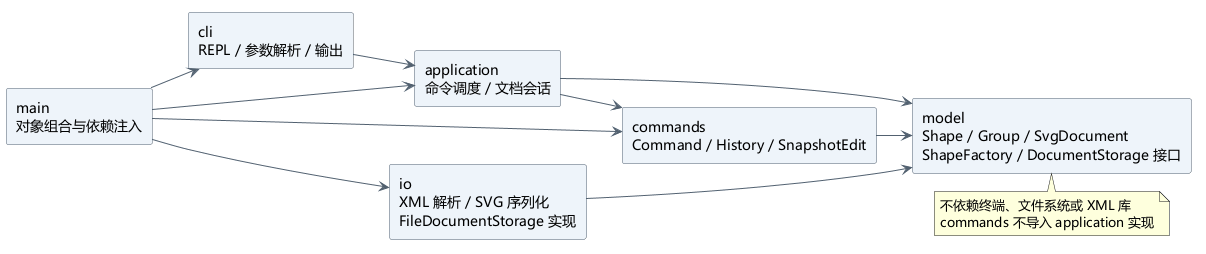
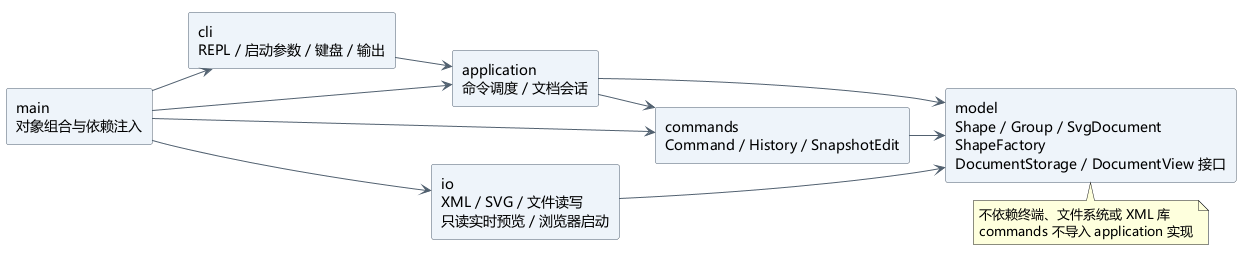
feat: add Windows launcher and document verified live-preview workflow

Changed region(s): [[0.0, 0.0827, 1.0, 0.9646], [0.0, 0.3031, 0.1534, 0.3583], [0.0, 0.5512, 0.1534, 0.5787]]

diff --git a/tests/Usability.test.ts b/tests/Usability.test.ts
@@ -55,6 +55,11 @@ test('unsaved state follows edits, exact undo to the saved snapshot, redo, faile
   new InitCommand(session).execute([]);
   assert.equal(session.hasUnsavedChanges, true);
   new CreateCommand(session).execute(['rect', 'r', '1', '2', '3', '4']);
+  const presented = session.currentDocument!;
+  presented.resize(1, 1);
+  presented.remove('r');
+  assert.equal(session.document.width, 800, 'presentation receives a detached view');
+  assert.equal(session.document.has('r'), true);
   session.save(file);
   assert.equal(session.hasUnsavedChanges, false);
   new MoveCommand(session).execute(['r', '10', '0']);

diff --git a/src/application/EditorSession.ts b/src/application/EditorSession.ts
@@ -14,7 +14,7 @@ export class EditorSession implements CommandContext, DocumentView {
   constructor(private readonly storage?: DocumentStorage) {}
 
   get associatedPath(): string | undefined { return this.filePath; }
-  get currentDocument(): SvgDocument | undefined { return this.current; }
+  get currentDocument(): SvgDocument | undefined { return this.current?.clone(); }
   get hasUnsavedChanges(): boolean {
     return this.current !== undefined && (this.savedSnapshot === undefined || !this.current.equals(this.savedSnapshot));
   }

diff --git a/doc/README.md b/doc/README.md
@@ -2,7 +2,7 @@
 
 仓库地址：https://github.com/SharkerSwag/lab1-svg-editor
 
-状态：2026-10-19 Phase 1 功能已实现，正在二次复核与试用。本轮 main 修复了独立复核发现的问题，已有 final 暂保留为旧版对照，尚未重新确认正式交付。后续 box 插件不在当前范围。课程平台上的 README 上传及状态核对需由本人执行。
+状态：2026-10-21 Phase 1 功能及实用性改进已实现，95 项测试通过，当前仍保留试用与正式交付的区分。main 包含实时预览与启动改进，已有 final 暂保留为旧版对照。后续 box 插件不在当前范围。课程平台上的 README 上传及状态核对需由本人执行。
 
 ## 架构方案
 
@@ -10,11 +10,11 @@
 
 | 模块 | 职责 | 当前进度 |
 | --- | --- | --- |
-| `src/cli/` | REPL、双引号参数解析、提示符和统一错误输出 | 已实现 |
+| `src/cli/` | REPL、启动参数、双引号解析、提示符、键盘与退出提醒 | 已实现 |
 | `src/application/` | 命令注册与调度、当前文档、历史与 IO 协调 | EditorApplication / CommandRegistry / EditorSession |
 | `src/commands/` | 对象化命令、可撤销编辑和历史管理 | 十九个 CLI 命令、全部编辑对象与 History 已实现 |
 | `src/model/` | 图形类层次、分组、画布、id 与树结构不变量 | 六种图形、工厂、文档、不可变几何与属性变换已实现 |
-| `src/io/` | SVG 解析、序列化及文件读写 | XML 解析、序列化、保存与读取均已实现 |
+| `src/io/` | SVG/命令文件读写、只读实时预览、浏览器启动 | 文件端口和展示适配器均已实现 |
 | `src/main.ts` | 组合入口，构造对象并注入依赖 | 已实现 |
 | `tests/` | 自动测试，包括边界与脚本回放 | 当前覆盖输入、模型、创建、历史和示例回放 |
 
@@ -38,8 +38,9 @@
 - `application → commands/model`：调度命令并协调当前文档、历史与持久化端口，不导入 io 具体实现。
 - `commands → model`：编辑行为操作领域对象，不导入 CLI 或文件系统。
 - 应用层 `EditorSession` 实现命令层定义的 `CommandContext` 接口；命令通过该接口访问会话能力，不反向导入 application 实现，避免循环依赖。
-- `io → model`：在 SVG 和领域模型之间转换，不控制历史。
+- `io → model`：在 SVG 和领域模型之间转换，通过 DocumentView 只读获取会话状态，不控制历史或调用编辑命令。LivePreview 只提供页面、快照与 SSE 推送。
 - `model/DocumentStorage` 定义持久化端口，io 实现、application 注入使用，commands 不导入文件 IO 实现。
+- `model/DocumentView` 定义只读展示端口，由 EditorSession 实现；main 将其注入预览。cli 用 main 注入的回调请求刷新，不导入 io，application 也不依赖 HTTP 或浏览器。
 - `model` 不依赖以上模块，不导入终端与文件 IO。
 - `main.ts` 是组合入口，允许导入各模块来注入对象，不承载图形业务逻辑。
 - 测试可以依赖被测模块，不被产品代码反向导入。
@@ -50,7 +51,7 @@
 
 | 变化点 | 当前决策 |
 | --- | --- |
-| 新增 GUI 或 agent 输入通道 | CLI 与应用层分离，复用命令和图形模型 |
+| 新增 GUI 或 agent 输入通道 | 已增加只读浏览器预览适配器；编辑仍复用现有命令，不复制一套浏览器编辑逻辑 |
 | 新增图形类型及后续 `box` 插件 | 已有统一 Shape 接口和集中工厂；不提前实现动态插件加载 |
 | 新增编辑命令 | 用命令对象注册到单一分发入口，避免 REPL 膨胀 |
 | 读写格式、外部 SVG 兼容范围 | 独立 `io` 模块，先定义可支持范围，再做往返测试 |
@@ -65,6 +66,10 @@
 SVG 导入范围：UTF-8 XML、SVG 命名空间或无命名空间、六种基本图形、嵌套、公共样式、数字/px 长度、文字与 CDATA。title/desc/metadata 不作为图形；保留 font-size/font-family/font-weight/font-style/text-anchor/xml:space 作为导入显示属性，不扩展 set 白名单。根尺寸缺失时优先采用 viewBox，否则默认 800×600；存在 viewBox 时要求为 0 0 width height。支持嵌套 translate 并展平至几何坐标；其他 transform、CSS style/class、未支持元素/属性、非 UTF-8 和 DTD 明确拒绝，不静默丢弃。未知 data-kind 警告后降级普通类型，不恢复 box 便利属性。显式 id 先全量预留再补缺失 id，避免与后面元素碰撞。
 
 默认保存路径：read 绑定读入路径，后续显式 save 到其他文件不改变该路径，确保无参数 save 按题目写回读入文件。init 后首次成功 save 建立默认路径；init 清除绑定，后续 read 重新绑定。带引号参数中的反斜杠保持字面值，只将 `\"` 用作文字内双引号转义，因此 Windows UNC 前缀不会被折叠。
+
+实用性扩展的边界：npm run cli 保持原始无文档会话和十九条命令。npm start 通过启动参数打开示例工作副本并启动只读实时预览；--file 打开原文件，--copy 打开无默认路径的副本，--script 回放后退出且以非零退出码报告错误。预览读取内存快照并通过 SSE 更新，不调用 save，因此不产生历史屏障。浏览器只处理 DOM 与图片展示，图形变换和类型分派继续由 TypeScript 领域对象负责。
+
+未保存状态：保存/读取后保留一个文档内容快照，按图形多态几何、样式、文字、层级和顺序比较，而非简单记录“执行过编辑”。undo 回到已保存内容时恢复已保存状态；任意成功 save 都表示当前快照已有文件副本，但不改变上述默认路径规则。此状态额外占用一份文档，仍限于 Lab 小图规模。Ctrl+C 首次提示可继续保存，再次确认放弃；EOF 直接结束，不宣称自动恢复或崩溃保护。
 
 ## 过程记录
 
@@ -154,6 +159,15 @@ SVG 导入范围：UTF-8 XML、SVG 命名空间或无命名空间、六种基本
 - 当前共 81 项测试通过；Edge 实际加载指南生成的 SVG，蓝色矩形、橙色圆、绿色椭圆、中文与横线显示正常，截图和原 SVG 已留存。继续保留旧 final，不因本轮通过自动改写标签。
 - 源码提交 64a0513 再次通过独立干净目录的 npm ci、类型检查、81 项测试、导出与完整示例验证；新导出与已有浏览器预览源文件哈希一致。此后只记录验收结果，不修改已验证的运行代码与测试。
 
+### 2026-10-21：从功能验收到实际工具
+
+- 用户指出仍欠易用性。将这轮范围集中为终端驱动的实时预览、一键示例启动、文件/副本/脚本参数、保存状态、键盘操作和退出提醒，保留作业 CLI 主体与十九条命令。
+- 预览必须避开 save 的历史屏障，因此采用返回独立文档副本的 DocumentView + SvgSerializer + SSE，逐次发布内存内容，测试确认预览后仍可 undo/redo，展示方也不能改写会话文档。
+- 起初尝试浏览器直接下载副本，实际无头 Edge 下载未能完成，没有将请求发出当作下载成功。删除该功能，采用复制 CLI 保存命令；正式保存继续经过既有原子文件写入和历史规则。
+- 真实终端检查发现宿主 TERM=dumb 会使 Node 禁用历史编辑和补全。通过本机 Node 实现核实，简易终端改为准确提示；支持 VT 的终端实测 Tab 补全、↑ 历史、未保存 Ctrl+C 提醒，以及保存后退出。另有实际 readline 键盘事件回归测试。
+- 新增 14 项回归，共 95 项测试通过，原 81 项继续通过；没有通过改写原断言来放宽命令或历史要求。
+- 真实 Edge 检查了首屏/中文/示例换行、缩放与网格、实际 CLI 编辑/undo/redo、保存后与撤销后的状态、剪贴板按钮、刷新重连、390px 窄窗口与退出断连；浏览器无 JavaScript 或 CSP 错误。截图保存在 doc/live-preview.png。
+
 ## 一致性自查
 
 1. **模块划分**：cli/application/commands/model/io 均已创建，与方案一致；新增的 ShapeInput 适配器、DocumentStorage 端口、SnapshotEdit 和 StructureEditor 分别落在既定职责内。快照策略与依赖收紧已在过程记录中修订。
@@ -161,7 +175,7 @@ SVG 导入范围：UTF-8 XML、SVG 命名空间或无命名空间、六种基本
 
 ## 质量保证手段
 
-当前 81 项自动测试覆盖输入解析、模型不变量、编辑及精确 undo/redo、失败原子性、历史屏障、补 id 与转义、SVG 往返、完整 CLI 示例、架构规则、保存路径、UNC、非法 XML 引用与编码声明，以及 1,200 步混合操作和中文使用指南回放。测试数本身不代表代码已无缺陷。命令为 `npm run typecheck` 和 `npm test`，测试先构建再运行；`npm run demo:full` 可回放题目会话，`npm run demo:svg` 生成可直接浏览的文件。本人可按 [动手验收](https://github.com/SharkerSwag/lab1-svg-editor/blob/main/doc/%E5%8A%A8%E6%89%8B%E9%AA%8C%E6%94%B6.md) 操作并理解架构。
+当前 95 项自动测试覆盖输入解析、模型不变量、精确 undo/redo、失败原子性、历史屏障、SVG 往返、CLI 示例、架构规则、1,200 步混合操作，以及实时预览 HTTP/SSE、深层内容比较、未保存状态、启动参数、脚本退出码和实际 readline 键盘事件。测试数本身不代表代码已无缺陷。命令为 `npm run typecheck` 和 `npm test`；npm run demo:full 回放题目会话。本人可按 [动手验收](https://github.com/SharkerSwag/lab1-svg-editor/blob/main/doc/%E5%8A%A8%E6%89%8B%E9%AA%8C%E6%94%B6.md) 操作并理解架构。
 
 浏览器实际加载程序导出的 SVG，检查方框、中文、连线和节点位移，截图随文档提交。PlantUML 图也已渲染并检查。详细命令、环境和干净检出结果见 [verification.md](https://github.com/SharkerSwag/lab1-svg-editor/blob/main/doc/verification.md)，逐项状态见 [验收清单](https://github.com/SharkerSwag/lab1-svg-editor/blob/main/doc/%E9%AA%8C%E6%94%B6%E6%B8%85%E5%8D%95.md)。
 

diff --git a/README.md b/README.md
@@ -1,83 +1,90 @@
-# Lab1 SVG CLI 编辑器
+# Lab1 SVG 编辑器
 
-个人 Lab1，TypeScript + 面向对象实现，使用 AI 协作并记录架构与开发过程。
+用终端命令画 SVG，同时在浏览器中实时看图。TypeScript + 面向对象，使用 Command 管理撤销重做、Composite 统一叶子与容器操作。
 
 仓库：https://github.com/SharkerSwag/lab1-svg-editor
 
-**当前状态：Phase 1 功能验收通过，本轮 81 项测试通过，包含 1,200 步固定种子的混合操作检查。** `main` 包含复核后的修复。已有 `final` 是过早标记的旧版本，暂保留作对照，不代表当前代码的正式交付确认。`box` 和动态插件不属于本阶段。
+**2026-10-21：作业十九条命令与实用性改进已实现，95 项测试通过。** 另已在真实 Edge 浏览器检查画布更新、缩放、复制命令、保存状态、重连与窄窗口布局。后续阶段的 box 和动态插件不在当前范围。
 
-想弄清终端操作和图片之间的关系，可先照着 [十分钟动手验收](doc/动手验收.md) 操作，覆盖十九条命令，并附真实浏览器截图与架构阅读路线。
+## 开始使用
 
-## 先看图片
+需要 Node.js 24 或更新版本。Windows 可以双击工程目录中的 **start-editor.cmd**：首次启动自动安装依赖，然后进入编辑器。
 
-在项目目录的普通终端中运行 `npm ci`，再运行 `npm run demo:svg`，将生成的 `output/flowchart.svg` 拖进浏览器。以下截图来自浏览器加载程序实际导出的 SVG：
-
-![程序生成的流程图](doc/browser-preview.png)
-
-演示先画出两个节点，再将右侧节点下移、修改文字并调整连线端点，最后保存、读取。`output/flowchart-before.svg` 是修改前，`output/flowchart.svg` 是修改后。保存后刷新浏览器即可看到变化。
-
-## 本地运行
-
-需要 Node.js 24 或更新版本。
+也可以在工程目录的终端运行：
 
 ```powershell
 npm ci
-npm run cli
+npm start
 ```
 
-输入 `help` 查看全部命令。Windows 下按 Ctrl+Z 再回车发送 EOF 退出，或按 Ctrl+C 退出。只有交互终端显示 `svg> ` 提示符；脚本输入不显示提示符。更新代码后需退出旧 CLI 并重新运行。
+终端会出现 `svg>`，浏览器打开实时画布。启动时加载流程图的**工作副本**，首次保存需指定自己的文件名。浏览器无法自动打开时，复制终端打印的本机地址即可。
 
-可以在 CLI 内逐行输入（不要复制 `svg>` 提示符）：
+![实际运行的实时预览](doc/live-preview.png)
+
+在 `svg>` 后逐行输入，不要复制提示符：
 
 ```text
-init 800 600
-create g node1
-create rect start 120 100 160 60 #4a90d9 in node1
-create text label 155 135 "开始" in node1
-tree
-show start
+move node2 0 60
+set process-label text "处理数据 v2"
 undo
-tree
 redo
-tree
 save "我的图.svg"
 ```
 
-`undo` 撤销刚创建的文字，`redo` 将其恢复；最后的 save 导出文件，可直接在浏览器打开。g 是不可见的分组，tree 是结构目录。创建失败不占用 id、不改变文档和历史。成功 `init/read/save` 或 `canvas w h` 清空历史并禁止撤销重做，直到下一次成功编辑；只查询 `canvas` 不影响历史。
+右侧节点会下移，文字跟着移动；修改文字后，undo/redo 会撤销、恢复文字。画面随命令自动更新，**预览不会执行 save，不会清空撤销历史**。最后的 save 才将作品写入磁盘。
 
-在工程目录的普通终端中（不是 `svg>` 内）运行完整的两节点流程图创建演示：
+画布支持适应窗口、放大缩小和透明网格；右侧显示文档树、当前保存状态，并可复制示例或保存命令。关闭浏览器后，终端仍能编辑；终端退出后，预览服务随之关闭。
+
+## 打开文件与标准 CLI
+
+| 用途 | 在普通终端运行 |
+| --- | --- |
+| 作业原始 CLI，默认无文档 | `npm run cli` |
+| 空会话，附实时预览 | `npm run cli -- --preview` |
+| 打开已有 SVG 并预览 | `npm run cli -- --file "我的图.svg" --preview` |
+| 打开副本，另存自己的作品 | `npm run cli -- --copy "我的图.svg" --preview` |
+| 不自动打开浏览器，只打印地址 | 在启动参数后加 `--no-open` |
+| 回放 UTF-8 命令文件并退出 | `npm run cli -- --script "命令.txt"` |
+| 启动帮助 | `npm run cli -- --help` |
+
+`--file` 保留原路径，无参数 save 会写回该文件。`--copy` 创建无默认路径的工作副本，避免改写示例。`--script` 中每行一条命令，错误后继续处理，任何一行失败时返回非零退出码；脚本内的相对路径以终端当前工作目录为准。
+
+输入 `help` 查看全部十九条作业命令。支持 VT 的交互终端可使用 ↑/↓ 调出历史、Tab 补全命令名；历史仅保留在当前会话中。`TERM=dumb` 使用简易逐行模式并明确提示。脚本输入不显示交互提示符。
+
+## 保存与退出
+
+- `save "我的图.svg"`：保存到指定文件；读入文档后显式导出另一文件，不改变原有默认保存路径。
+- `save`：写回 read/`--file` 绑定的路径；init/`--copy` 后第一次成功保存建立默认路径。
+- 未保存提示比较实际文档内容；撤销回已保存的内容会恢复“已保存快照”。显式导出副本也代表当前快照已落盘，但仍不改变默认路径。
+- 交互终端按 Ctrl+C：有未保存更改时，第一次提醒保存并继续会话；再次 Ctrl+C 放弃更改并退出。输入新命令会重置退出确认。
+- EOF（Windows 的 Ctrl+Z 后回车、其他平台的 Ctrl+D）直接退出；有未保存内容会警告。程序不自动写入恢复文件，退出前请执行 save。
+
+成功 init/read/save 或 canvas 修改尺寸按作业规则清空历史并禁止撤销重做，直到下一次编辑；canvas 查询、tree/show/help 和实时预览不影响历史。失败命令不改变文档、关联路径或历史。
+
+## 示例与验证
 
 ```powershell
 npm run demo
-```
-
-演示脚本位于 [examples/creation.txt](examples/creation.txt)，包含中文标签、嵌套分组和撤销重做。
-
-导出真正的图片文件：
-
-```powershell
 npm run demo:svg
-```
-
-随后把工程目录的 `output/flowchart.svg` 拖进浏览器查看。此文件由本程序的 `save` 生成。也可以在 `svg>` 中执行 `save "我的图.svg"`。read 后的无参数 save 写回读入路径；显式保存到另一文件只导出副本，不改变已绑定的默认路径。init 后首次成功 save 建立默认路径。成功保存设置历史屏障，失败不改变历史和关联路径。`output/` 是生成目录，不提交 Git。
-
-```powershell
+npm run demo:full
 npm run typecheck
 npm test
-npm run demo:full
 ```
 
-项目 `.npmrc` 使用 npm 官方 registry，避免本机旧镜像地址影响安装；不修改用户全局 npm 配置。
+`demo:svg` 生成 output/flowchart-before.svg 和 output/flowchart.svg，可拖进浏览器直接查看。`demo:full` 回放题目完整会话与案例 A，其中祖孙冲突和保存后 undo 是题目预期的两条错误。output/ 是生成目录，不提交 Git。
 
-`demo:full` 回放作业第 6 节完整会话和案例 A，其中祖孙冲突分组与保存后 undo 的两条错误是题目预期行为。十九条命令均已注册并列在 help 中。应用运行不需要 Java，文档里的 PlantUML 图已预先生成。
+项目 .npmrc 使用 npm 官方源，完整依赖树固定在 package-lock.json。应用运行不需要 Java，PlantUML 图已生成。实时预览只监听本机回环地址，不依赖外部网页、CDN 或新增 npm 包。
 
-外部 SVG 导入范围与边界见 [作业文档](doc/README.md)。本程序支持题目要求的六种基本元素，不是通用 SVG 浏览器；遇到未支持的格式会明确报错。
+SVG 支持范围与限制见 [作业文档](doc/README.md)；本程序实现本阶段的基本 SVG 子集。
 
-## 作业文档与提交
+## 作业材料
 
-- [架构方案、过程记录、自查与质量保证](doc/README.md)
-- [功能验收清单与时间安排](doc/验收清单.md)
-- [验证记录与测试覆盖](doc/verification.md)
-- [二次独立审查与实际修复](doc/review-2026-10-19.md)
+- [架构方案、真实过程、自查与质量保证](doc/README.md)
+- [十分钟动手验收：十九条命令与架构阅读路线](doc/动手验收.md)
+- [功能验收清单](doc/验收清单.md)
+- [验证记录](doc/verification.md)
+- [前次独立审查与修复](doc/review-2026-10-19.md)
 
-截至课程平台显示的 2026-10-31 23:59，需要推送最终代码和 `final` 标签，并把包含仓库地址的 `doc/README.md` 以文件名 `README.md` 上传课程平台。平台时区以课程设置为准。课程平台上传及提交状态核对需由本人完成；页面可访问到 11 月 30 日不代表作业延期。
+课程截止为 **2026-10-31 23:59**，须推送最终代码和 final 标签，并将含仓库地址的 doc/README.md 以文件名 README.md 上传课程平台。平台可访问到 11 月 30 日不代表延期。
+
+已有 final 是过早标记的旧版本，暂保留作对照；当前可用版本在 main。最终标签确认和课程平台上传仍待完成。

diff --git a/doc/verification.md b/doc/verification.md
@@ -1,12 +1,12 @@
 # Phase 1 验证记录
 
-验证日期：2026-10-19。
+验证日期：2026-10-19、2026-10-21。
 
 ## 环境与命令
 
 - Windows，Node.js v24.19.0、npm 11.17.0、Git 2.45.1。
 - TypeScript 7.0.2、tsx 4.23.15、@xmldom/xmldom 0.9.12；依赖版本与完整依赖树由 package-lock.json 固定。
-- `npm test`：先构建，再运行 Node 内置测试运行器，目前 **81/81 通过**；旧 final 的 67 项测试属于上一轮证据，不能替代本轮复核。
+- `npm test`：先构建，再运行 Node 内置测试运行器，目前 **95/95 通过**；旧 final 的 67 项测试属于上一轮证据，不能替代本轮复核。
 - 干净目录验证通过：从提交 `90a86f8` 使用 git archive 解出源码到独立临时目录，无现成 node_modules/dist/output；依次执行 `npm ci`、`npm run typecheck`、`npm test`、`npm run demo:svg`、`npm run demo:full`，全部成功。
 - 干净目录中同样为 67/67 通过，完整会话只产生两条预期错误。之后仅更新交付与验证文档，运行代码和测试未改动。
 
@@ -14,7 +14,7 @@
 
 第二轮从修复提交 `023ba74` 使用 git archive 解出另一独立临时目录，重新执行 npm ci、类型检查、npm test、demo:svg 与 demo:full，**74/74 通过**，完整会话仍只有两条题目预期错误。新导出的 output/flowchart.svg 与已由浏览器检查的 doc/browser-preview.svg SHA-256 一致，预览证据仍适用。
 
-第三轮新增编码声明校验、两个回归测试、四个混合操作测试和一个中文指南验收测试。编码声明测试在修复前均失败、修复后通过。当前类型检查、81 项测试和差异空白检查通过；旧 final 不移动。
+第三轮新增编码声明校验、两个回归测试、四个混合操作测试和一个中文指南验收测试。编码声明测试在修复前均失败、修复后通过。当时类型检查、81 项测试和差异空白检查通过；旧 final 不移动。
 
 第三轮源码提交 `64a0513e40087cc66a08eba56a0de51016f16ce5` 已用 git archive 导出到新的独立目录，再依次执行 npm ci、npm run typecheck、npm test、npm run demo:svg、npm run demo:full，全部退出码为 0，**81/81 通过**。完整会话仍仅出现两条题目预期错误；新导出的 flowchart.svg 与已检查的 browser-preview.svg SHA-256 一致。本机临时目录名为 lab1-acceptance-check-da2f905bc6a34987a98e331bf3c95206，各命令日志已保留。此后只补验证文档，运行代码与测试未改动。
 
@@ -32,6 +32,8 @@
 | Acceptance.test.ts（中文指南） | 实际进程回放动手验收文档的十九条命令，核对三个预期错误、七个元素、缩放结果、解组、子树恢复与画布保存 |
 | StateMachine.test.ts | 四个固定种子各 300 步；独立状态栈验证撤销/重做，失败不改变文档/路径，查询不影响历史，IO 屏障，逐步核对树与索引及序列化往返 |
 | Architecture.test.ts | 包级 import 方向、一类一文件、类型 switch 所在位置，以及十九条命令注册与帮助完整性 |
+| Preview.test.ts | 页面脚本语法、Unicode/非法预览字符、只读 HTTP、Host/Origin/异常 URL、SSE 初始/更新/撤销状态、关闭活动连接，不改变编辑历史 |
+| Usability.test.ts | 文档内容比较、展示副本隔离、准确未保存状态、失败 IO、启动参数、命令补全、实际 readline 键盘、Ctrl+C 提醒、工作副本不改原文件、脚本退出码 |
 
 架构检查使用当前源码格式的静态扫描，不是完整 TypeScript AST 或动态依赖分析；同时人工核对了实际 import、组合入口与两处名字分派。它不会证明不存在所有形式的架构违规。
 
@@ -42,6 +44,16 @@
 第三轮同时回放 doc/动手验收.md，Edge 无头浏览器直接加载实际生成的 output/动手验收.svg，900×500 截图保存在 doc/hands-on-preview.png，导出源文件保存为 doc/hands-on-preview.svg。实际检查确认五种叶子图形可见、中文完整、分组缩放的位置/大小与命令一致，两个 g 没有额外绘制边框。
 
 PlantUML 组件图由 doc/architecture.puml 经 PlantUML 1.2026.9（MIT 版，本地 Java）生成 PNG/SVG，已检查中文标签与依赖箭头可读。
+
+## 2026-10-21 实时预览与终端操作
+
+- 启动真实 dist/src/main.js --preview --no-open --copy examples/welcome.svg，Edge 通过本机 HTTP 页面显示当前内存文档，不用磁盘 save 驱动画面。
+- 通过浏览器调试协议实际操作，检查初始 SVG 图片、中文、四行示例、缩放/适应/网格、终端编辑/undo/redo、save 后与 undo 回保存内容后的状态、两个剪贴板按钮、刷新重连、390px 窄窗口不横向溢出，以及 CLI 退出后的断连提示。无 JavaScript 或 CSP 错误。
+- 浏览器截图保存在 doc/live-preview.png。完整检查脚本及输出保留于本机临时目录 lab1-live-browser-70533e9e2f7046aca6a825914be4be8a，不将环境专用脚本计入 95 项可复现 Node 测试。
+- 发现测试宿主的 TERM=dumb 有意禁用 Node 的历史与补全；界面按能力准确提示。另在 VT 终端实际分步输入 he、Tab、Enter，完成 help；↑ 再次回放历史。Ctrl+C 首次保留会话并提醒，保存后 Ctrl+C 退出。自动回归也向真实 readline 接口发送键盘事件。
+- Windows 的 start-editor.cmd --no-open 已在真实交互终端运行：正常调用 npm start，工作副本与本机预览启动，执行 move 和 save 成功，Ctrl+C 后正常退出。启动文件检查 Node 版本、首次安装依赖，并用自身目录作为工作目录。
+- 浏览器下载尝试没有完成，未纳入最终功能。当前保存统一通过 CLI，页面只复制保存命令，避免出现第二套保存状态或历史规则。
+- 当前范围只在 Windows/Edge 做过 GUI 检查；未宣称其他桌面环境的浏览器启动已实测。macOS/Linux 启动器失败会保留可手动访问的预览地址。
 
 ## 限制
 

diff --git a/doc/验收清单.md b/doc/验收清单.md
@@ -66,6 +66,15 @@ Phase 1 功能已实现，当前继续进行二次复核与试用；功能检查
 - [x] 不支持的编码声明明确拒绝；失败导入保留文档、路径和 redo。
 - [x] 外部 transform、未知标签和属性的支持范围已明确并验证。
 
+## 2026-10-21 实用性
+
+- [x] npm start 打开示例工作副本与本机实时预览；原始 npm run cli 行为保留。
+- [x] 浏览器逐次同步编辑、undo/redo，不执行 save 或改变历史。
+- [x] 当前文件、准确未保存状态、树、缩放、网格、示例/保存命令复制均已检查。
+- [x] --file、--copy、--script、--help 及失败退出码通过真实 CLI 进程验证。
+- [x] VT 终端 Tab/历史与 Ctrl+C 保存提醒已验证，TERM=dumb 按实际能力提示。
+- [x] 全部 95 项 Node 测试、类型检查通过，真实 Edge 交互、刷新重连及窄窗口通过。
+
 ## 最终交付
 
 - [x] 回放题目典型会话与流程图案例 A；不实现后续阶段 box。

diff --git a/doc/动手验收.md b/doc/动手验收.md
@@ -2,6 +2,8 @@
 
 这个 Lab 的界面是终端：命令修改内存里的图形树，`save` 才生成可看的 SVG 图片。`tree` 显示结构，浏览器显示图片；普通 `g` 只是把图形放在一起操作，本身没有边框。
 
+2026-10-21 已加入实时看图：先运行 npm ci，再运行 npm start，或在 Windows 双击 start-editor.cmd。终端和浏览器同时打开，示例以工作副本加载。在终端执行 move node2 0 60 就能看到节点移动，undo 可以恢复。保存前预览会显示“尚未保存”；在终端执行 save 才写入磁盘，预览本身不影响撤销历史。下面十九命令流程仍使用原始 CLI，便于逐项核对作业。
+
 ## 启动
 
 在工程目录的普通终端运行：
